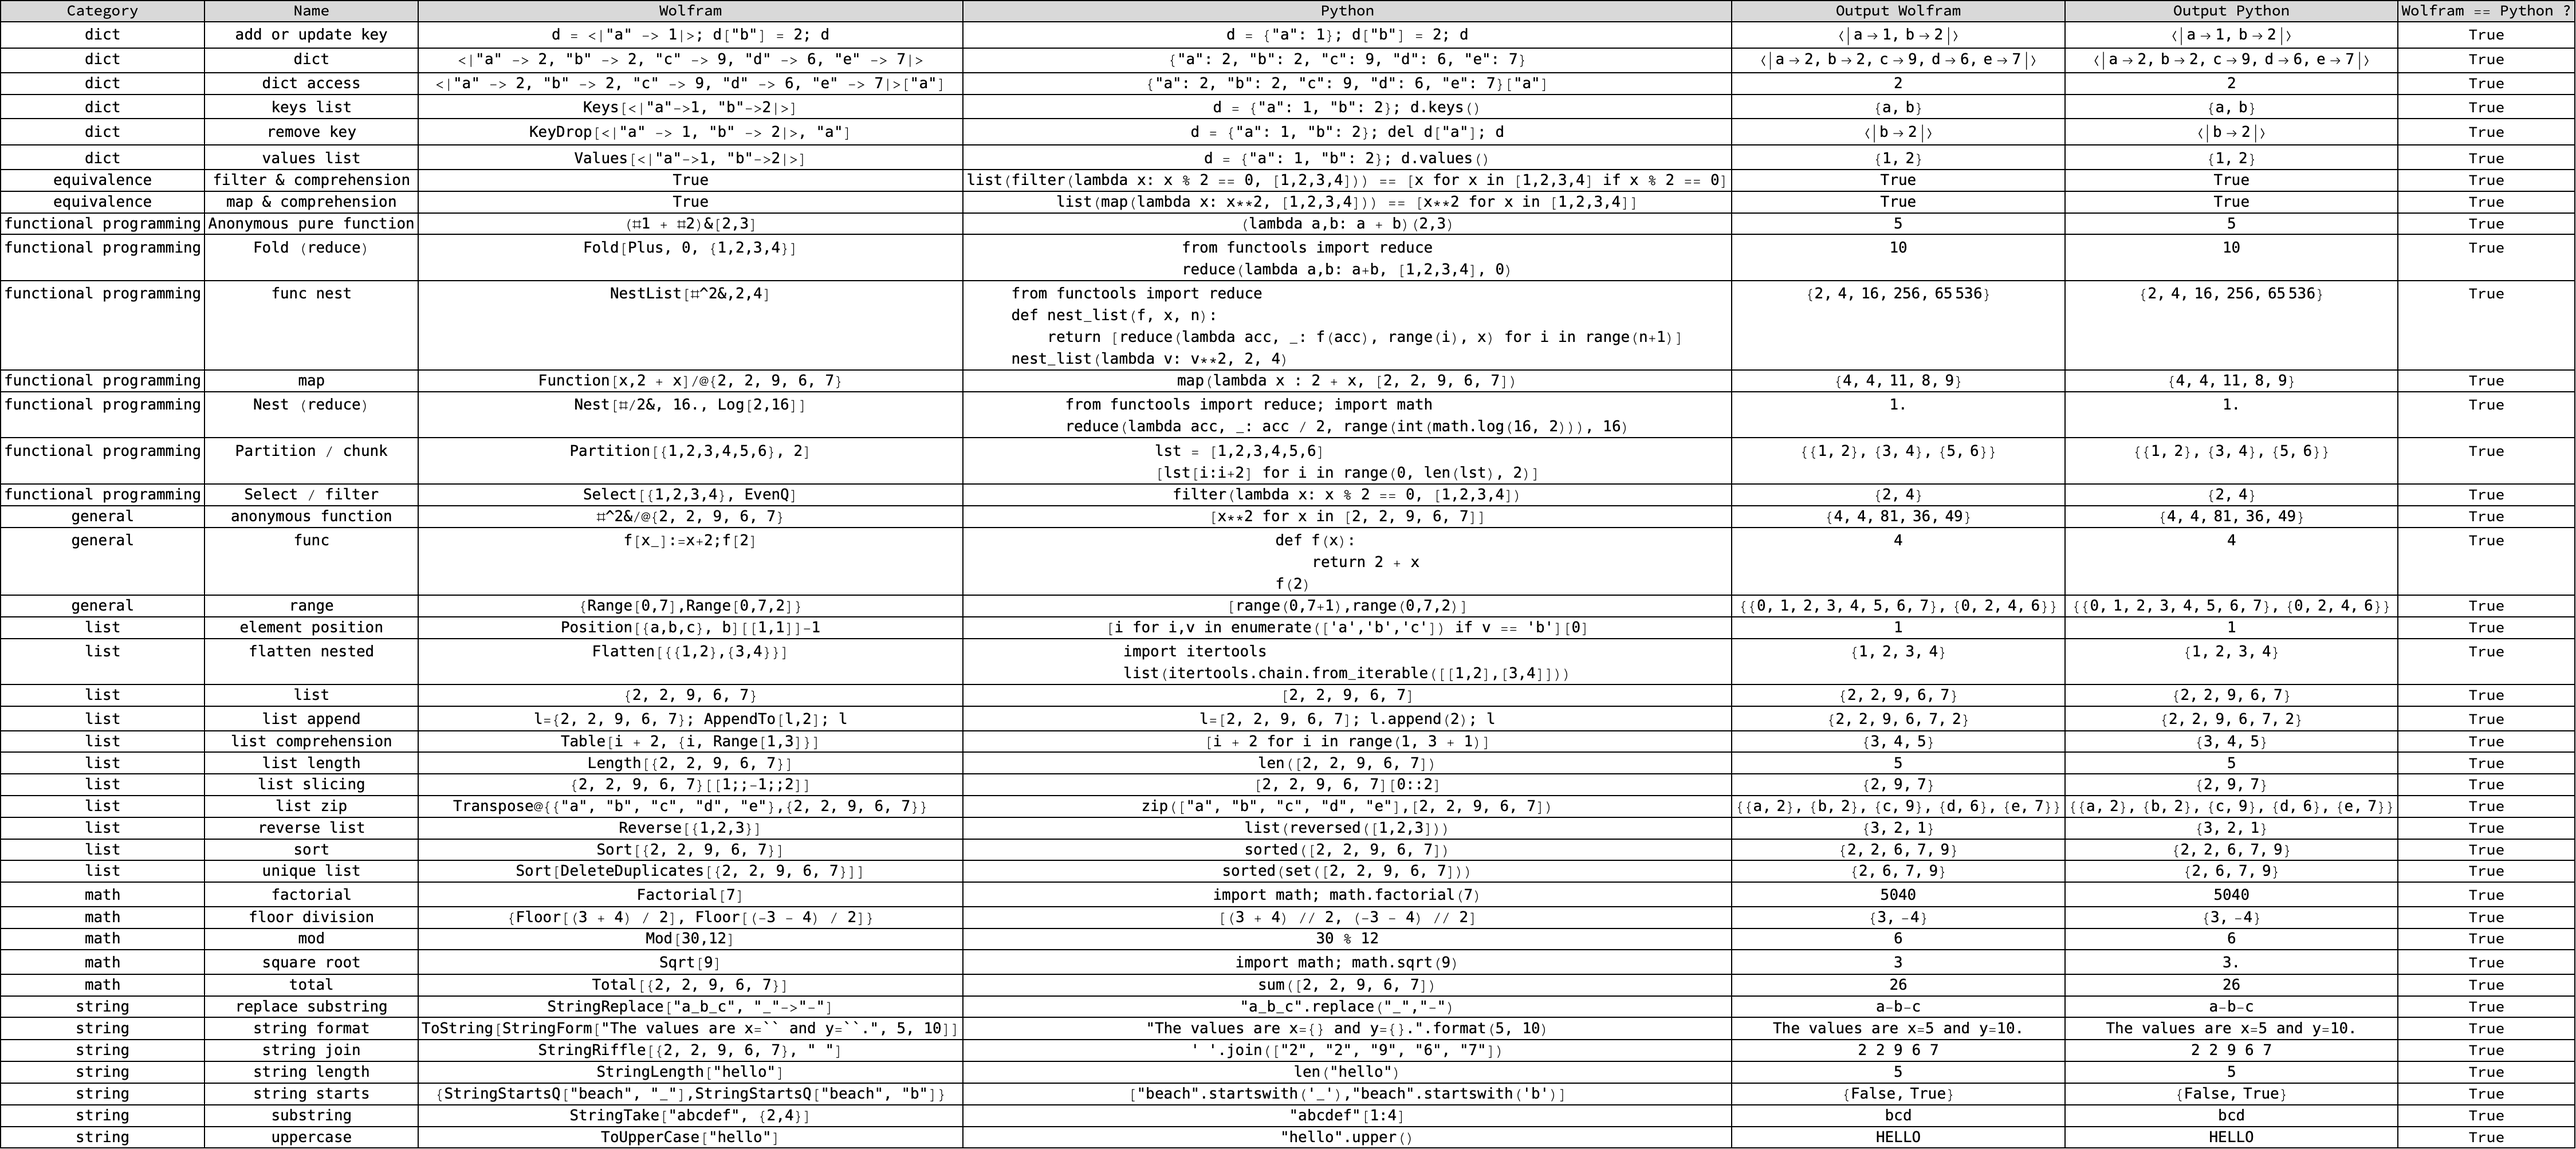
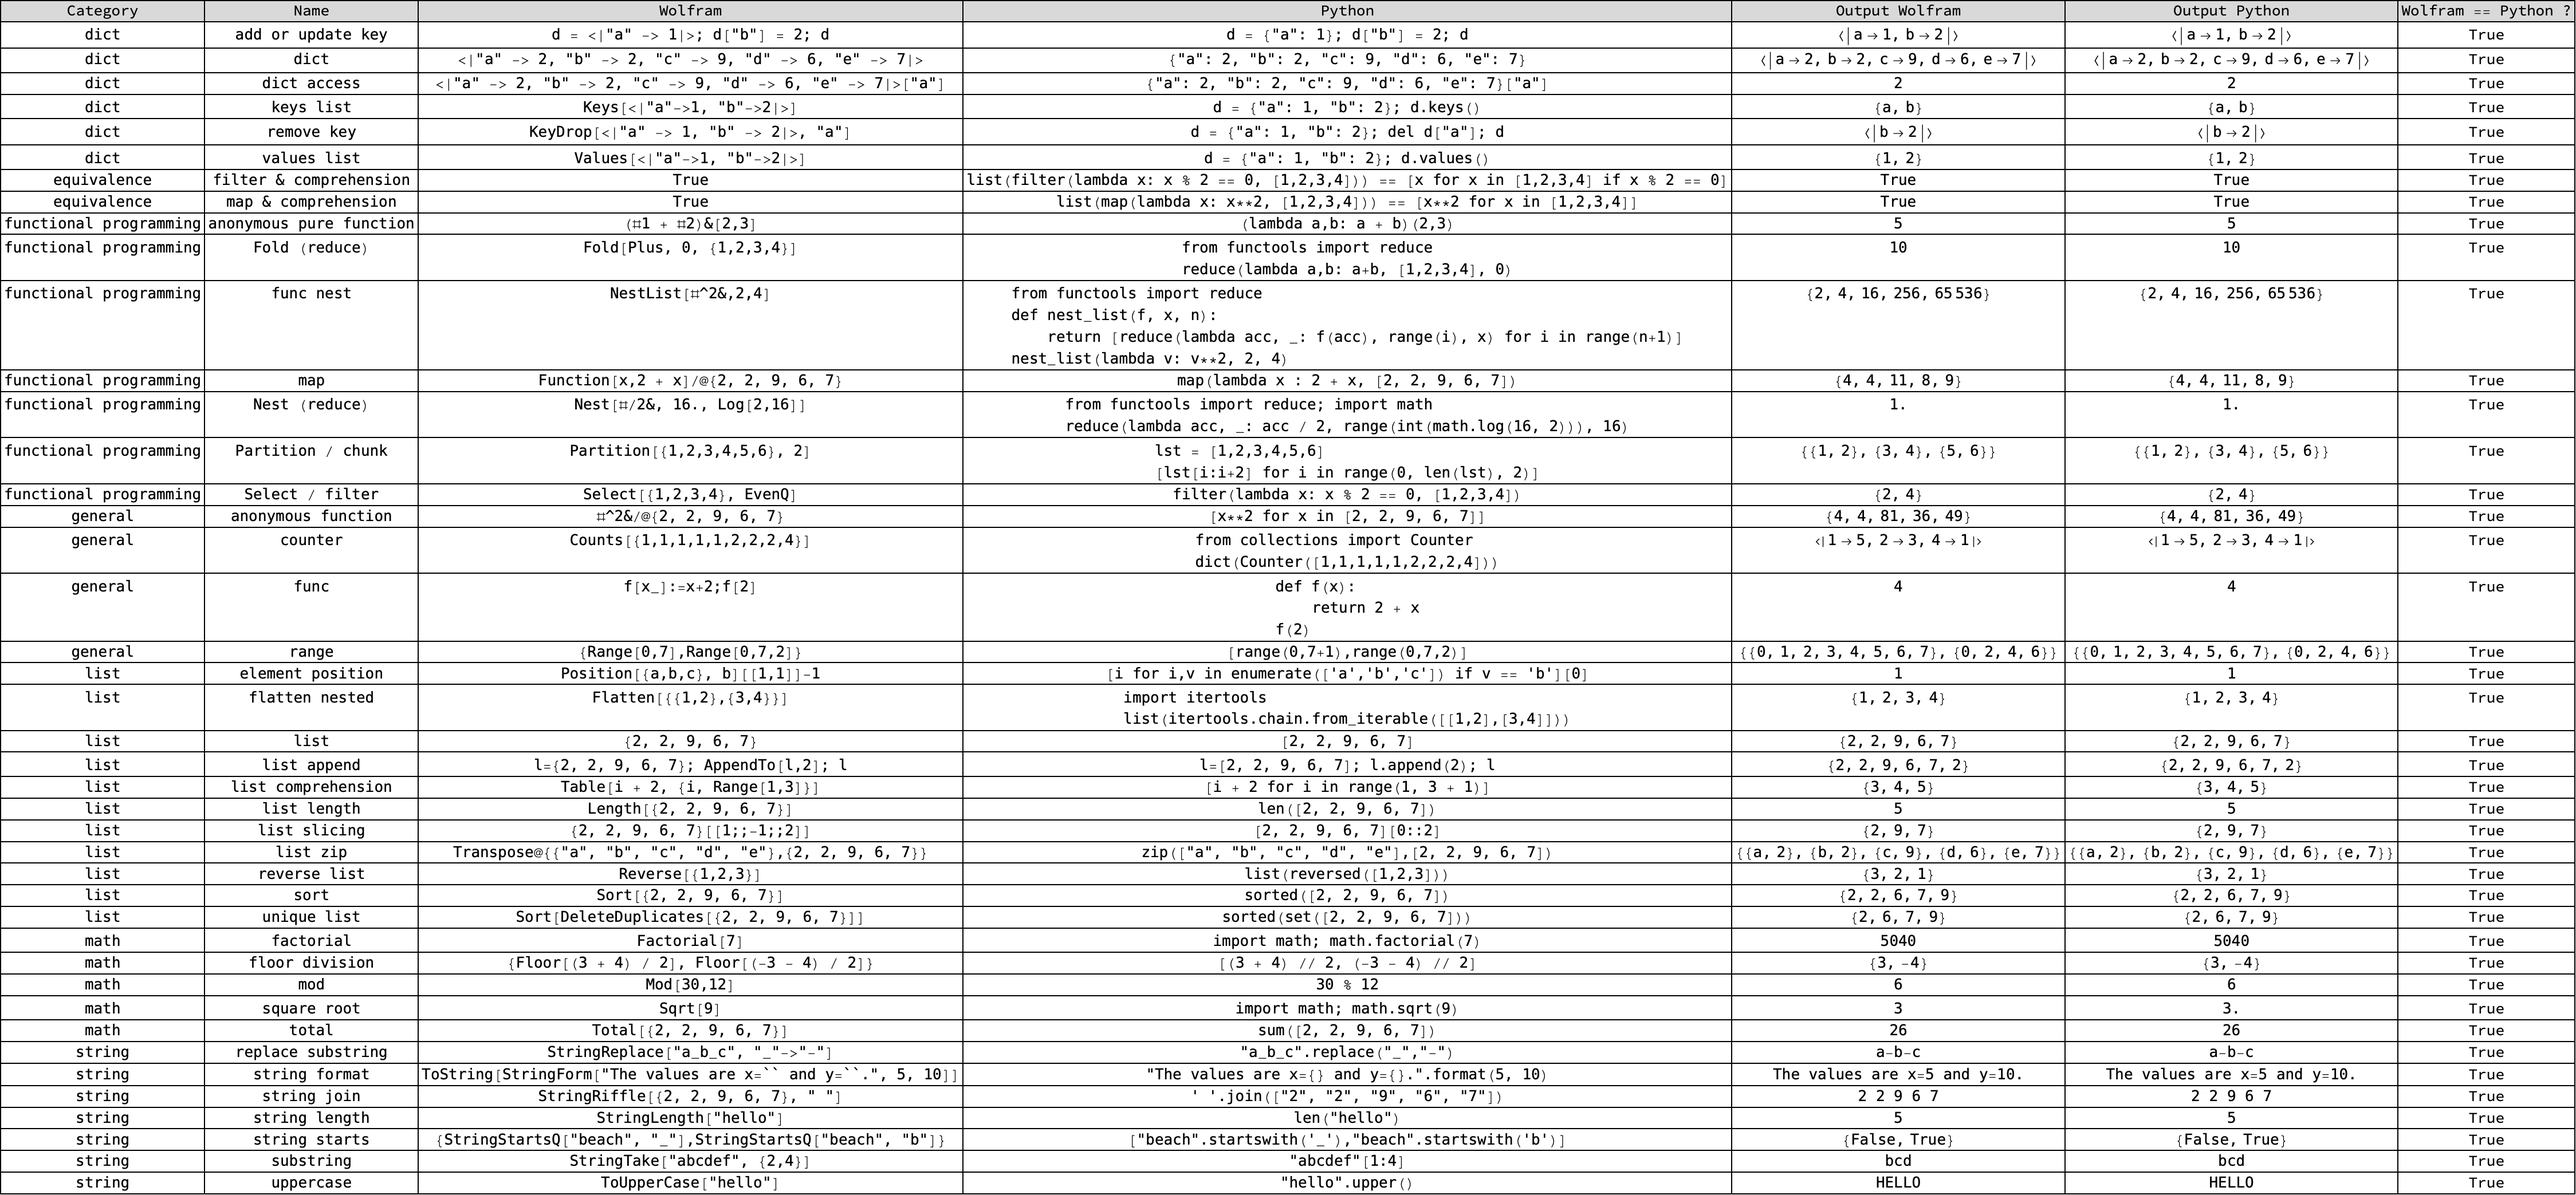
counter example

Changed region(s): [[0.0, 0.0, 1.0, 1.0]]

diff --git a/README.md b/README.md
@@ -7,6 +7,7 @@ Welcome to **Wolfram ↔ Python**, a quick reference guide that mirrors common W
  Name | Wolfram | Python
 :---:|:---|:---
 anonymous function|<pre>#^2&/@{2, 2, 9, 6, 7}</pre>|<pre>[x**2 for x in [2, 2, 9, 6, 7]]</pre>
+counter|<pre>Counts[{1,1,1,1,1,2,2,2,4}]</pre>|<pre>from collections import Counter<br/>dict(Counter([1,1,1,1,1,2,2,2,4]))<br/></pre>
 func|<pre>f[x_]:=x+2;f[2]</pre>|<pre>def f(x):<br/>	return 2 + x<br/>f(2)<br/></pre>
 global|<pre>Names["Global`*"]</pre>|<pre>globals()</pre>
 print|<pre>Print["Hello world"]</pre>|<pre>print("Hello world")</pre>
@@ -34,7 +35,7 @@ map & comprehension|<pre>True</pre>|<pre>list(map(lambda x: x**2, [1,2,3,4])) ==
 
  Name | Wolfram | Python
 :---:|:---|:---
-Anonymous pure function|<pre>(#1 + #2)&[2,3]</pre>|<pre>(lambda a,b: a + b)(2,3)</pre>
+anonymous pure function|<pre>(#1 + #2)&[2,3]</pre>|<pre>(lambda a,b: a + b)(2,3)</pre>
 Fold (reduce)|<pre>Fold[Plus, 0, {1,2,3,4}]</pre>|<pre>from functools import reduce<br/>reduce(lambda a,b: a+b, [1,2,3,4], 0)<br/></pre>
 func nest|<pre>NestList[#^2&,2,4]</pre>|<pre>from functools import reduce<br/>def nest_list(f, x, n):<br/>    return [reduce(lambda acc, _: f(acc), range(i), x) for i in range(n+1)]<br/>nest_list(lambda v: v**2, 2, 4)<br/></pre>
 map|<pre>Function[x,2 + x]/@{2, 2, 9, 6, 7}</pre>|<pre>map(lambda x : 2 + x, [2, 2, 9, 6, 7])</pre>
